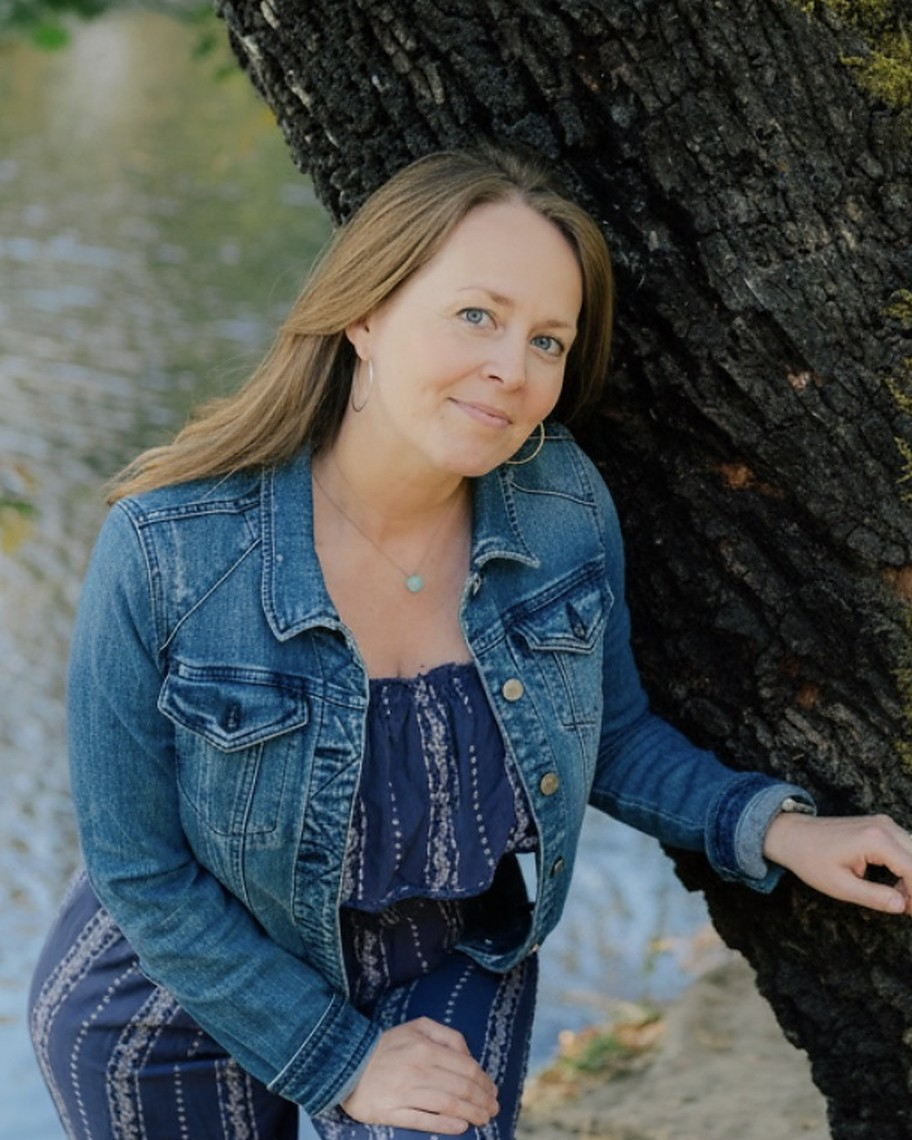
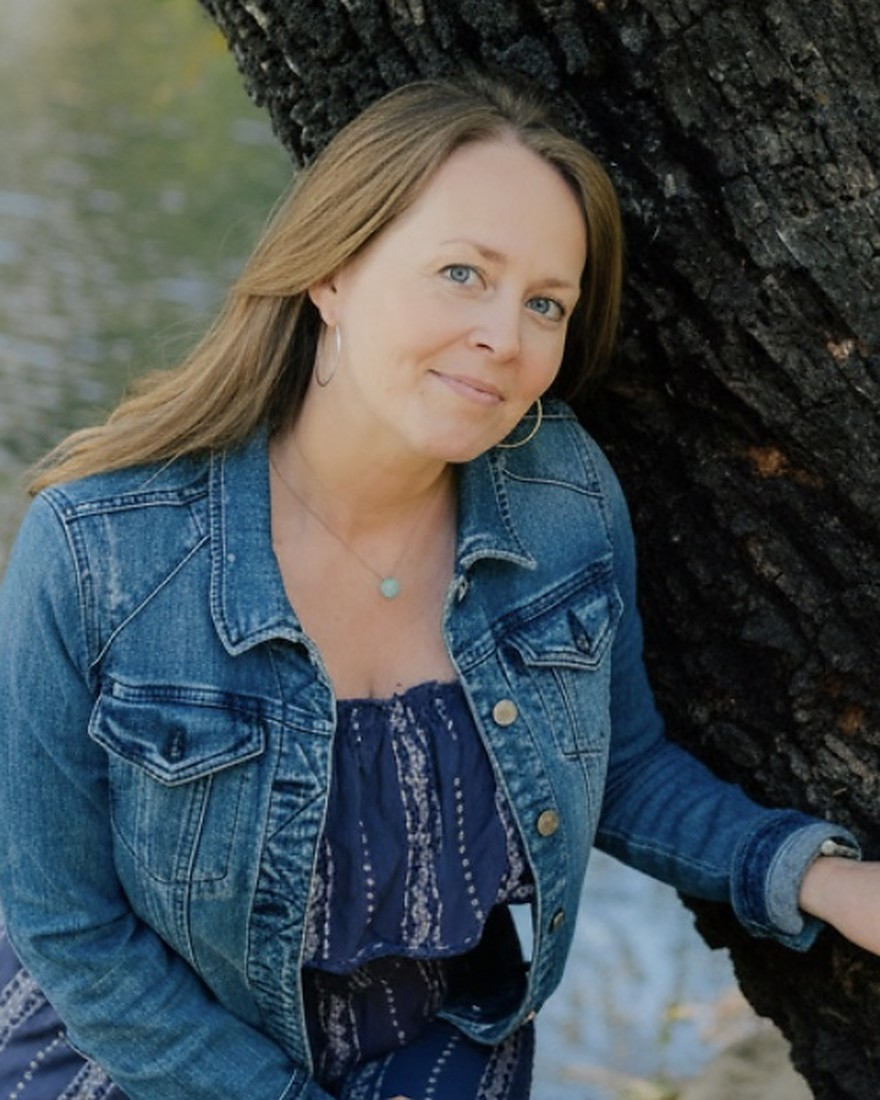
Erin: portrait cropped tighter again, at her ask (v=307)
Crop box on erin-tree.jpg goes from (0,130,608,890) to (55,185,555,810):
500x625, still exactly 4/5, so it still maps to the frame one to one. 18%
tighter than the last pass. Bottom now sits at the jacket hem, the top of her
hip, rather than below the hand; top keeps about 30px over her head.

Worth knowing before going tighter still: the source is only 920px wide, so a
500px crop carries 0.86 of a pixel per pixel of the 584px frame, against 1.04
on the last crop. Resampled up to 880x1100 with a firmer unsharp pass to hold
it together, but the detail is genuinely thinner now. Tighter than this wants
a higher-resolution original from Erin.

diff --git a/clients/erinnorthcott/daniel/index.html b/clients/erinnorthcott/daniel/index.html
@@ -8,7 +8,7 @@
   <link rel="preconnect" href="https://fonts.googleapis.com" />
   <link rel="preconnect" href="https://fonts.gstatic.com" crossorigin />
   <link href="https://fonts.googleapis.com/css2?family=JetBrains+Mono:wght@300;400&family=Caveat:wght@500;600&family=Karla:wght@200..600&family=Instrument+Serif:ital@0;1&display=swap" rel="stylesheet" />
-  <link rel="stylesheet" href="../style.css?v=306" />
+  <link rel="stylesheet" href="../style.css?v=307" />
 </head>
 <body class="is-daniel try-instrument">
   <!-- Arrival: the veil, as everywhere on the site -->
@@ -36,7 +36,7 @@
 
     <!-- 1. THE PACT: one line, alone on the first screen -->
     <section class="dan__pact">
-      <img class="dan__hero" src="../images/daniel/hero-daisies.jpg?v=306" alt="" width="2200" height="1527" decoding="async" fetchpriority="high" />
+      <img class="dan__hero" src="../images/daniel/hero-daisies.jpg?v=307" alt="" width="2200" height="1527" decoding="async" fetchpriority="high" />
       <p class="dan__pactline">My brother and I made a pact...</p>
     </section>
 
@@ -58,7 +58,7 @@
           <span class="dan__folio" aria-hidden="true"></span>
         </div>
         <figure class="dan__secphoto">
-          <span class="dan__mount"><img src="../images/daniel/01-newborn.jpg?v=306" alt="Daniel as a newborn, Erin&rsquo;s hand on his cheek" width="1200" height="808" loading="lazy" decoding="async" /><figcaption class="dan__caption">The first days.</figcaption><i class="dan__mountc" aria-hidden="true"></i></span>
+          <span class="dan__mount"><img src="../images/daniel/01-newborn.jpg?v=307" alt="Daniel as a newborn, Erin&rsquo;s hand on his cheek" width="1200" height="808" loading="lazy" decoding="async" /><figcaption class="dan__caption">The first days.</figcaption><i class="dan__mountc" aria-hidden="true"></i></span>
         </figure>
       </article>
       <article class="dan__sec dan__sec--flip dan__sec--paper" data-folio="2">
@@ -69,7 +69,7 @@
           <span class="dan__folio" aria-hidden="true"></span>
         </div>
         <figure class="dan__secphoto">
-          <span class="dan__mount"><img src="../images/daniel/04-laughing.jpg?v=306" alt="Daniel and Erin laughing as children" width="1200" height="871" loading="lazy" decoding="async" /><figcaption class="dan__caption">Before the two houses.</figcaption><i class="dan__mountc" aria-hidden="true"></i></span>
+          <span class="dan__mount"><img src="../images/daniel/04-laughing.jpg?v=307" alt="Daniel and Erin laughing as children" width="1200" height="871" loading="lazy" decoding="async" /><figcaption class="dan__caption">Before the two houses.</figcaption><i class="dan__mountc" aria-hidden="true"></i></span>
         </figure>
       </article>
       <article class="dan__sec" data-folio="3">
@@ -81,7 +81,7 @@
           <span class="dan__folio" aria-hidden="true"></span>
         </div>
         <figure class="dan__secphoto">
-          <span class="dan__mount"><img src="../images/daniel/07-ballpark.jpg?v=306" alt="Erin and Daniel at the ballpark fence" width="1200" height="804" loading="lazy" decoding="async" /><figcaption class="dan__caption">The years of weekends.</figcaption><i class="dan__mountc" aria-hidden="true"></i></span>
+          <span class="dan__mount"><img src="../images/daniel/07-ballpark.jpg?v=307" alt="Erin and Daniel at the ballpark fence" width="1200" height="804" loading="lazy" decoding="async" /><figcaption class="dan__caption">The years of weekends.</figcaption><i class="dan__mountc" aria-hidden="true"></i></span>
         </figure>
       </article>
       <article class="dan__sec dan__sec--flip dan__sec--paper" data-folio="4">
@@ -93,7 +93,7 @@
           <span class="dan__folio" aria-hidden="true"></span>
         </div>
         <figure class="dan__secphoto">
-          <span class="dan__mount"><img src="../images/daniel/08-teenagers.jpg?v=306" alt="Erin and Daniel, young adults" width="1504" height="1000" loading="lazy" decoding="async" /><figcaption class="dan__caption">Los Angeles, the living room year.</figcaption><i class="dan__mountc" aria-hidden="true"></i></span>
+          <span class="dan__mount"><img src="../images/daniel/08-teenagers.jpg?v=307" alt="Erin and Daniel, young adults" width="1504" height="1000" loading="lazy" decoding="async" /><figcaption class="dan__caption">Los Angeles, the living room year.</figcaption><i class="dan__mountc" aria-hidden="true"></i></span>
         </figure>
       </article>
       <article class="dan__sec" data-folio="5">
@@ -105,7 +105,7 @@
           <span class="dan__folio" aria-hidden="true"></span>
         </div>
         <figure class="dan__secphoto">
-          <span class="dan__mount"><img src="../images/daniel/09-on-the-water.jpg?v=306" alt="Daniel and Erin on the water" width="1800" height="1350" loading="lazy" decoding="async" /><figcaption class="dan__caption">Taiwan.</figcaption><i class="dan__mountc" aria-hidden="true"></i></span>
+          <span class="dan__mount"><img src="../images/daniel/09-on-the-water.jpg?v=307" alt="Daniel and Erin on the water" width="1800" height="1350" loading="lazy" decoding="async" /><figcaption class="dan__caption">Taiwan.</figcaption><i class="dan__mountc" aria-hidden="true"></i></span>
         </figure>
       </article>
       <article class="dan__sec dan__sec--flip dan__sec--paper" data-folio="6">
@@ -116,7 +116,7 @@
           <span class="dan__folio" aria-hidden="true"></span>
         </div>
         <figure class="dan__secphoto">
-          <span class="dan__mount"><img src="../images/daniel/03-asleep-with-muffy.jpg?v=306" alt="Daniel asleep beside Erin" width="1470" height="1000" loading="lazy" decoding="async" /><figcaption class="dan__caption">Dan.</figcaption><i class="dan__mountc" aria-hidden="true"></i></span>
+          <span class="dan__mount"><img src="../images/daniel/03-asleep-with-muffy.jpg?v=307" alt="Daniel asleep beside Erin" width="1470" height="1000" loading="lazy" decoding="async" /><figcaption class="dan__caption">Dan.</figcaption><i class="dan__mountc" aria-hidden="true"></i></span>
         </figure>
       </article>
       <article class="dan__sec" data-folio="7">
@@ -131,7 +131,7 @@
           <span class="dan__folio" aria-hidden="true"></span>
         </div>
         <figure class="dan__secphoto">
-          <span class="dan__mount"><img src="../images/daniel/06-mother-ii.jpg?v=306" alt="Daniel and Erin aboard the boat Mother II" width="1200" height="822" loading="lazy" decoding="async" /><figcaption class="dan__caption">Aboard Mother II.</figcaption><i class="dan__mountc" aria-hidden="true"></i></span>
+          <span class="dan__mount"><img src="../images/daniel/06-mother-ii.jpg?v=307" alt="Daniel and Erin aboard the boat Mother II" width="1200" height="822" loading="lazy" decoding="async" /><figcaption class="dan__caption">Aboard Mother II.</figcaption><i class="dan__mountc" aria-hidden="true"></i></span>
         </figure>
       </article>
       <!-- the end card (2026-09-10): one line over the rings, then the whole
@@ -149,15 +149,15 @@
          right; the neighbours wait as slivers at the edges. Runs back. -->
     <section class="strip" aria-label="Photographs of Daniel and Erin">
       <div class="strip__stage">
-        <figure class="strip__frame"><img src="../images/daniel/04-laughing-film.jpg?v=306" alt="Daniel and Erin laughing as children" width="1400" height="978" decoding="async" /></figure>
-        <figure class="strip__frame"><img src="../images/daniel/01-newborn.jpg?v=306" alt="Daniel as a newborn, Erin's hand on his cheek" width="1200" height="808" loading="lazy" decoding="async" /></figure>
-        <figure class="strip__frame"><img src="../images/daniel/02-shoulders.jpg?v=306" alt="Daniel on a parent's shoulders, Erin beside him" width="836" height="1200" loading="lazy" decoding="async" /></figure>
-        <figure class="strip__frame"><img src="../images/daniel/03-asleep-with-muffy.jpg?v=306" alt="Daniel asleep with Muffy the dog" width="1470" height="1000" loading="lazy" decoding="async" /></figure>
-        <figure class="strip__frame"><img src="../images/daniel/05-daisies.jpg?v=306" alt="Daniel and Erin in a field of daisies" width="1400" height="978" loading="lazy" decoding="async" /></figure>
-        <figure class="strip__frame"><img src="../images/daniel/06-mother-ii.jpg?v=306" alt="Daniel and Erin aboard the boat Mother II" width="1200" height="822" loading="lazy" decoding="async" /></figure>
-        <figure class="strip__frame"><img src="../images/daniel/07-ballpark.jpg?v=306" alt="Erin and Daniel at the ballpark fence" width="1200" height="804" loading="lazy" decoding="async" /></figure>
-        <figure class="strip__frame"><img src="../images/daniel/08-teenagers.jpg?v=306" alt="Erin and Daniel as teenagers" width="1504" height="1000" loading="lazy" decoding="async" /></figure>
-        <figure class="strip__frame"><img src="../images/daniel/09-on-the-water.jpg?v=306" alt="Daniel and Erin on the water" width="1800" height="1350" loading="lazy" decoding="async" /></figure>
+        <figure class="strip__frame"><img src="../images/daniel/04-laughing-film.jpg?v=307" alt="Daniel and Erin laughing as children" width="1400" height="978" decoding="async" /></figure>
+        <figure class="strip__frame"><img src="../images/daniel/01-newborn.jpg?v=307" alt="Daniel as a newborn, Erin's hand on his cheek" width="1200" height="808" loading="lazy" decoding="async" /></figure>
+        <figure class="strip__frame"><img src="../images/daniel/02-shoulders.jpg?v=307" alt="Daniel on a parent's shoulders, Erin beside him" width="836" height="1200" loading="lazy" decoding="async" /></figure>
+        <figure class="strip__frame"><img src="../images/daniel/03-asleep-with-muffy.jpg?v=307" alt="Daniel asleep with Muffy the dog" width="1470" height="1000" loading="lazy" decoding="async" /></figure>
+        <figure class="strip__frame"><img src="../images/daniel/05-daisies.jpg?v=307" alt="Daniel and Erin in a field of daisies" width="1400" height="978" loading="lazy" decoding="async" /></figure>
+        <figure class="strip__frame"><img src="../images/daniel/06-mother-ii.jpg?v=307" alt="Daniel and Erin aboard the boat Mother II" width="1200" height="822" loading="lazy" decoding="async" /></figure>
+        <figure class="strip__frame"><img src="../images/daniel/07-ballpark.jpg?v=307" alt="Erin and Daniel at the ballpark fence" width="1200" height="804" loading="lazy" decoding="async" /></figure>
+        <figure class="strip__frame"><img src="../images/daniel/08-teenagers.jpg?v=307" alt="Erin and Daniel as teenagers" width="1504" height="1000" loading="lazy" decoding="async" /></figure>
+        <figure class="strip__frame"><img src="../images/daniel/09-on-the-water.jpg?v=307" alt="Daniel and Erin on the water" width="1800" height="1350" loading="lazy" decoding="async" /></figure>
         <div class="filmedge filmedge--l" aria-hidden="true"><div class="filmedge__print"><span class="filmedge__mark">16A &#8594; KODAK 400 &#8226;&#8226; 5</span><span class="filmedge__mark">16A &#8594; KODAK 400 &#8226;&#8226; 5</span><span class="filmedge__mark">16A &#8594; KODAK 400 &#8226;&#8226; 5</span><span class="filmedge__mark">16A &#8594; KODAK 400 &#8226;&#8226; 5</span><span class="filmedge__mark">16A &#8594; KODAK 400 &#8226;&#8226; 5</span><span class="filmedge__mark">16A &#8594; KODAK 400 &#8226;&#8226; 5</span><span class="filmedge__mark">16A &#8594; KODAK 400 &#8226;&#8226; 5</span><span class="filmedge__mark">16A &#8594; KODAK 400 &#8226;&#8226; 5</span><span class="filmedge__mark">16A &#8594; KODAK 400 &#8226;&#8226; 5</span><span class="filmedge__mark">16A &#8594; KODAK 400 &#8226;&#8226; 5</span></div></div>
         <div class="filmedge filmedge--r" aria-hidden="true"><div class="filmedge__print"><span class="filmedge__mark">56 &#8226;&#8226; KODAK 400 &#8594; 16A</span><span class="filmedge__mark">56 &#8226;&#8226; KODAK 400 &#8594; 16A</span><span class="filmedge__mark">56 &#8226;&#8226; KODAK 400 &#8594; 16A</span><span class="filmedge__mark">56 &#8226;&#8226; KODAK 400 &#8594; 16A</span><span class="filmedge__mark">56 &#8226;&#8226; KODAK 400 &#8594; 16A</span><span class="filmedge__mark">56 &#8226;&#8226; KODAK 400 &#8594; 16A</span><span class="filmedge__mark">56 &#8226;&#8226; KODAK 400 &#8594; 16A</span><span class="filmedge__mark">56 &#8226;&#8226; KODAK 400 &#8594; 16A</span><span class="filmedge__mark">56 &#8226;&#8226; KODAK 400 &#8594; 16A</span><span class="filmedge__mark">56 &#8226;&#8226; KODAK 400 &#8594; 16A</span></div></div>
         <button class="strip__arrow strip__arrow--prev" type="button" aria-label="Previous photograph"><svg viewBox="0 0 24 24" aria-hidden="true"><path d="M15 5l-7 7 7 7"/></svg></button>
@@ -172,7 +172,7 @@
       <div class="dan__filmgrid">
         <!-- the HBO poster (2026-09-10): her doc-image.jpeg, shown at its own size -->
         <figure class="dan__poster reveal">
-          <img src="../images/daniel/doc-poster.jpg?v=306" alt="The poster for Daniel, an HBO Original documentary" width="367" height="544" loading="lazy" decoding="async" />
+          <img src="../images/daniel/doc-poster.jpg?v=307" alt="The poster for Daniel, an HBO Original documentary" width="367" height="544" loading="lazy" decoding="async" />
         </figure>
       <div class="dan__measure reveal">
         <p class="eyebrow eyebrow--light">The film</p>
@@ -233,9 +233,9 @@
           <p class="cosmos__p">Daniel created a deck of cards: a game based on science that is filled with positivity and wonder for our world, that he played with children around the globe. You can see them in the film. I&rsquo;m bringing them back into the world soon.</p>
         </header>
         <ul class="cosmos__row reveal" aria-label="Cards of the Cosmos">
-          <li class="cosmos__obj"><img class="cosmos__img" src="../images/daniel/card-1.jpg?v=306" alt="A Cards of the Cosmos card" width="748" height="1124" loading="lazy" decoding="async" /></li>
-          <li class="cosmos__obj"><img class="cosmos__img" src="../images/daniel/card-2.jpg?v=306" alt="A Cards of the Cosmos card" width="758" height="1148" loading="lazy" decoding="async" /></li>
-          <li class="cosmos__obj"><img class="cosmos__img" src="../images/daniel/card-3.jpg?v=306" alt="A Cards of the Cosmos card" width="704" height="1084" loading="lazy" decoding="async" /></li>
+          <li class="cosmos__obj"><img class="cosmos__img" src="../images/daniel/card-1.jpg?v=307" alt="A Cards of the Cosmos card" width="748" height="1124" loading="lazy" decoding="async" /></li>
+          <li class="cosmos__obj"><img class="cosmos__img" src="../images/daniel/card-2.jpg?v=307" alt="A Cards of the Cosmos card" width="758" height="1148" loading="lazy" decoding="async" /></li>
+          <li class="cosmos__obj"><img class="cosmos__img" src="../images/daniel/card-3.jpg?v=307" alt="A Cards of the Cosmos card" width="704" height="1084" loading="lazy" decoding="async" /></li>
         </ul>
         <div class="cosmos__act reveal">
           <button class="cosmos__btn" type="button" aria-expanded="false" aria-controls="cosmos-form">Be the first to know</button>
@@ -258,10 +258,10 @@
     <!-- 6. CLOSING: the gold dust rings, then his line -->
     <section class="dan__close">
       <div class="rings reveal" aria-hidden="true">
-        <img class="rings__ring" src="../images/gold-ring.png?v=306" alt="" loading="lazy" decoding="async" width="800" height="796" />
-        <img class="rings__ring" src="../images/gold-ring.png?v=306" alt="" loading="lazy" decoding="async" width="800" height="796" />
-        <img class="rings__ring" src="../images/gold-ring.png?v=306" alt="" loading="lazy" decoding="async" width="800" height="796" />
-        <img class="rings__ring" src="../images/gold-ring.png?v=306" alt="" loading="lazy" decoding="async" width="800" height="796" />
+        <img class="rings__ring" src="../images/gold-ring.png?v=307" alt="" loading="lazy" decoding="async" width="800" height="796" />
+        <img class="rings__ring" src="../images/gold-ring.png?v=307" alt="" loading="lazy" decoding="async" width="800" height="796" />
+        <img class="rings__ring" src="../images/gold-ring.png?v=307" alt="" loading="lazy" decoding="async" width="800" height="796" />
+        <img class="rings__ring" src="../images/gold-ring.png?v=307" alt="" loading="lazy" decoding="async" width="800" height="796" />
       </div>
       <p class="dan__closing reveal">Our story never ends.</p>
     </section>
@@ -317,13 +317,13 @@
     </button>
   </dialog>
 
-  <script src="../reveal.js?v=306" defer></script>
-  <script src="../glint.js?v=306" defer></script>
-  <script src="../cursor.js?v=306" defer></script>
-  <script src="../strip.js?v=306" defer></script>
-  <script src="../stack.js?v=306" defer></script>
-  <script src="../pact.js?v=306" defer></script>
-  <script src="../cosmos.js?v=306" defer></script>
-  <script src="../trailer.js?v=306" defer></script>
+  <script src="../reveal.js?v=307" defer></script>
+  <script src="../glint.js?v=307" defer></script>
+  <script src="../cursor.js?v=307" defer></script>
+  <script src="../strip.js?v=307" defer></script>
+  <script src="../stack.js?v=307" defer></script>
+  <script src="../pact.js?v=307" defer></script>
+  <script src="../cosmos.js?v=307" defer></script>
+  <script src="../trailer.js?v=307" defer></script>
 </body>
 </html>

diff --git a/clients/erinnorthcott/inner-ceremonies/index.html b/clients/erinnorthcott/inner-ceremonies/index.html
@@ -8,7 +8,7 @@
   <link rel="preconnect" href="https://fonts.googleapis.com" />
   <link rel="preconnect" href="https://fonts.gstatic.com" crossorigin />
   <link href="https://fonts.googleapis.com/css2?family=Fraunces:ital,opsz,wght@0,9..144,300;0,9..144,400;0,9..144,500;1,9..144,300;1,9..144,400&family=JetBrains+Mono:wght@300;400&family=Caveat:wght@500;600&family=Karla:wght@200..600&family=Permanent+Marker&family=Instrument+Serif:ital@0;1&display=swap" rel="stylesheet" />
-  <link rel="stylesheet" href="../style.css?v=306" />
+  <link rel="stylesheet" href="../style.css?v=307" />
 </head>
 <body class="is-ceremony try-instrument">
   <!-- Arrival: a luminous veil that dissolves on load -->
@@ -39,7 +39,7 @@
         <!-- the hero IS what lies beyond the arch: pinned here while you pass
              through, its words fading in once the opening has cleared -->
         <section class="temple__hero">
-          <video class="temple__herovid" data-src="../videos/rose-water.mp4?v=306" poster="../images/rose-water-poster.jpg?v=306" loop muted playsinline preload="none" aria-hidden="true"></video>
+          <video class="temple__herovid" data-src="../videos/rose-water.mp4?v=307" poster="../images/rose-water-poster.jpg?v=307" loop muted playsinline preload="none" aria-hidden="true"></video>
           <span class="temple__herowash" aria-hidden="true"></span>
           <div class="temple__herotext">
             <h1 class="temple__title">Inner Ceremonies</h1>
@@ -83,9 +83,9 @@
           <p class="temple__beat">Wherever you&rsquo;re standing, the work meets you there.</p>
         </div>
         <div class="temple__aside">
-          <img class="temple__forest reveal" src="../images/forest-light.jpg?v=306" alt="" aria-hidden="true" loading="lazy" decoding="async" width="789" height="1400" />
+          <img class="temple__forest reveal" src="../images/forest-light.jpg?v=307" alt="" aria-hidden="true" loading="lazy" decoding="async" width="789" height="1400" />
       <figure class="spiral reveal" role="presentation">
-      <img class="temple__asiderose" src="../images/spiral-rose.jpg?v=306" alt="" aria-hidden="true" loading="lazy" decoding="async" width="1400" height="1400" />
+      <img class="temple__asiderose" src="../images/spiral-rose.jpg?v=307" alt="" aria-hidden="true" loading="lazy" decoding="async" width="1400" height="1400" />
       <svg class="spiral__svg" viewBox="0 0 398 398" aria-hidden="true" focusable="false">
         <defs>
           <path id="sp4" d="M0.000,-1.000L0.212,-0.212L1.000,0.000L0.212,0.212L0.000,1.000L-0.212,0.212L-1.000,0.000L-0.212,-0.212Z"/>
@@ -380,7 +380,7 @@
           <p class="temple__lede"><strong>A producer, coach, hypnotherapist, and mother. Everyone is welcome here.</strong></p>
         </div>
         <figure class="temple__portrait reveal">
-          <img src="../images/erin-tree-crop.jpg?v=306" alt="Erin Northcott" loading="lazy" decoding="async" width="912" height="1140" />
+          <img src="../images/erin-tree-crop.jpg?v=307" alt="Erin Northcott" loading="lazy" decoding="async" width="880" height="1100" />
         </figure>
       </div>
     </section>
@@ -551,7 +551,7 @@
     <section class="temple__band temple__band--note">
       <div class="temple__wrap temple__note">
         <figure class="temple__snap reveal">
-          <img src="../images/erin-ayan.jpg?v=306" alt="Erin with Ayan" loading="lazy" decoding="async" width="933" height="1400" />
+          <img src="../images/erin-ayan.jpg?v=307" alt="Erin with Ayan" loading="lazy" decoding="async" width="933" height="1400" />
         </figure>
         <div class="temple__notetext reveal">
           <p class="temple__label">A note from me</p>
@@ -601,10 +601,10 @@
       <!-- her gold ring, layered four times into concentric circles, each
            turning at its own pace, behind the closing line -->
       <div class="rings reveal" aria-hidden="true">
-        <img class="rings__ring" src="../images/gold-ring.png?v=306" alt="" loading="eager" decoding="async" width="800" height="796" />
-        <img class="rings__ring" src="../images/gold-ring.png?v=306" alt="" loading="lazy" decoding="async" width="800" height="796" />
-        <img class="rings__ring" src="../images/gold-ring.png?v=306" alt="" loading="lazy" decoding="async" width="800" height="796" />
-        <img class="rings__ring" src="../images/gold-ring.png?v=306" alt="" loading="lazy" decoding="async" width="800" height="796" />
+        <img class="rings__ring" src="../images/gold-ring.png?v=307" alt="" loading="eager" decoding="async" width="800" height="796" />
+        <img class="rings__ring" src="../images/gold-ring.png?v=307" alt="" loading="lazy" decoding="async" width="800" height="796" />
+        <img class="rings__ring" src="../images/gold-ring.png?v=307" alt="" loading="lazy" decoding="async" width="800" height="796" />
+        <img class="rings__ring" src="../images/gold-ring.png?v=307" alt="" loading="lazy" decoding="async" width="800" height="796" />
       </div>
       <p class="temple__closing reveal">How <em>clear</em> could you feel<span class="temple__q">?</span></p>
     </section>
@@ -641,13 +641,13 @@
     </div>
   </footer>
 
-  <script src="../reveal.js?v=306" defer></script>
-  <script src="../glint.js?v=306" defer></script>
-  <script src="../threshold.js?v=306" defer></script>
-  <script src="../praise.js?v=306" defer></script>
-  <script src="../pillars.js?v=306" defer></script>
-  <script src="../faq.js?v=306" defer></script>
-  <script src="../dust.js?v=306" defer></script>
-  <script src="../words.js?v=306" defer></script>
+  <script src="../reveal.js?v=307" defer></script>
+  <script src="../glint.js?v=307" defer></script>
+  <script src="../threshold.js?v=307" defer></script>
+  <script src="../praise.js?v=307" defer></script>
+  <script src="../pillars.js?v=307" defer></script>
+  <script src="../faq.js?v=307" defer></script>
+  <script src="../dust.js?v=307" defer></script>
+  <script src="../words.js?v=307" defer></script>
 </body>
 </html>

diff --git a/clients/erinnorthcott/index.html b/clients/erinnorthcott/index.html
@@ -8,7 +8,7 @@
   <link rel="preconnect" href="https://fonts.googleapis.com" />
   <link rel="preconnect" href="https://fonts.gstatic.com" crossorigin />
   <link href="https://fonts.googleapis.com/css2?family=Fraunces:ital,opsz,wght@0,9..144,400;0,9..144,500;0,9..144,600;1,9..144,300;1,9..144,400;1,9..144,500&family=JetBrains+Mono:wght@300;400;500&family=Caveat:wght@500;600;700&family=Karla:wght@300..700&family=Permanent+Marker&family=Instrument+Serif:ital@0;1&display=swap" rel="stylesheet" />
-  <link rel="stylesheet" href="style.css?v=306" />
+  <link rel="stylesheet" href="style.css?v=307" />
 </head>
 <body class="try-instrument">
   <!-- Arrival: a luminous veil that dissolves on load — you cross a threshold -->
@@ -105,7 +105,7 @@
           <a class="filmframe__link" data-trailer href="https://www.youtube.com/watch?v=04iHR-eZIXY" target="_blank" rel="noopener" aria-haspopup="dialog" aria-label="Watch the trailer for Daniel — an HBO Original documentary">
             <div class="filmframe__img">
               <!-- data-has-audio flips to "true" the moment the clip carries sound -->
-              <video class="filmframe__vid" data-src="videos/daniel.mp4?v=306" data-has-audio="true" poster="images/daniel.jpg?v=306" loop muted playsinline preload="none" aria-hidden="true"></video>
+              <video class="filmframe__vid" data-src="videos/daniel.mp4?v=307" data-has-audio="true" poster="images/daniel.jpg?v=307" loop muted playsinline preload="none" aria-hidden="true"></video>
               <span class="filmframe__watch">Watch the trailer &rarr;</span>
             </div>
             <!-- Key-art label: the film's own line, brushed onto torn tape -->
@@ -157,7 +157,7 @@
 
         <figure class="erin__photo reveal">
           <div class="erin__plate">
-            <img src="images/erin-rose.jpg?v=306" alt="Erin Northcott" loading="lazy" decoding="async" width="1920" height="1042" />
+            <img src="images/erin-rose.jpg?v=307" alt="Erin Northcott" loading="lazy" decoding="async" width="1920" height="1042" />
           </div>
         </figure>
 
@@ -283,15 +283,15 @@
     </button>
   </dialog>
 
-  <script src="sky.js?v=306" defer></script>
+  <script src="sky.js?v=307" defer></script>
   <script src="stars.js" defer></script>
-  <script src="motes.js?v=306" defer></script>
-  <script src="cursor.js?v=306" defer></script>
-  <script src="letters.js?v=306" defer></script>
-  <script src="sound.js?v=306" defer></script>
-  <script src="petals.js?v=306" defer></script>
-  <script src="reveal.js?v=306" defer></script>
-  <script src="glint.js?v=306" defer></script>
-  <script src="trailer.js?v=306" defer></script>
+  <script src="motes.js?v=307" defer></script>
+  <script src="cursor.js?v=307" defer></script>
+  <script src="letters.js?v=307" defer></script>
+  <script src="sound.js?v=307" defer></script>
+  <script src="petals.js?v=307" defer></script>
+  <script src="reveal.js?v=307" defer></script>
+  <script src="glint.js?v=307" defer></script>
+  <script src="trailer.js?v=307" defer></script>
 </body>
 </html>

diff --git a/clients/erinnorthcott/inner-ceremonies-tester/index.html b/clients/erinnorthcott/inner-ceremonies-tester/index.html
@@ -9,7 +9,7 @@
   <link rel="preconnect" href="https://fonts.googleapis.com" />
   <link rel="preconnect" href="https://fonts.gstatic.com" crossorigin />
   <link href="https://fonts.googleapis.com/css2?family=Fraunces:ital,opsz,wght@0,9..144,300;0,9..144,400;0,9..144,500;1,9..144,300;1,9..144,400&family=JetBrains+Mono:wght@300;400&family=Caveat:wght@500;600&family=Karla:wght@200..600&family=Permanent+Marker&display=swap" rel="stylesheet" />
-  <link rel="stylesheet" href="../style.css?v=306" />
+  <link rel="stylesheet" href="../style.css?v=307" />
 </head>
 <body class="is-ceremony is-temple-light">
   <!-- Arrival: a luminous veil that dissolves on load -->
@@ -35,7 +35,7 @@
 
     <!-- HERO -->
     <section class="temple__hero">
-      <video class="temple__herovid" data-src="../videos/rose-water.mp4?v=306" poster="../images/rose-water-poster.jpg?v=306" loop muted playsinline preload="none" aria-hidden="true"></video>
+      <video class="temple__herovid" data-src="../videos/rose-water.mp4?v=307" poster="../images/rose-water-poster.jpg?v=307" loop muted playsinline preload="none" aria-hidden="true"></video>
       <span class="temple__herowash" aria-hidden="true"></span>
       <div class="temple__herotext">
         <h1 class="temple__title">Inner Ceremonies</h1>
@@ -155,6 +155,6 @@
     </div>
   </footer>
 
-  <script src="../reveal.js?v=306" defer></script>
+  <script src="../reveal.js?v=307" defer></script>
 </body>
 </html>

diff --git a/clients/erinnorthcott/podcast/index.html b/clients/erinnorthcott/podcast/index.html
@@ -8,7 +8,7 @@
   <link rel="preconnect" href="https://fonts.googleapis.com" />
   <link rel="preconnect" href="https://fonts.gstatic.com" crossorigin />
   <link href="https://fonts.googleapis.com/css2?family=Fraunces:ital,opsz,wght@0,9..144,400;0,9..144,500;0,9..144,600;1,9..144,300;1,9..144,400;1,9..144,500&family=JetBrains+Mono:wght@300;400;500&family=Caveat:wght@500;600;700&family=Karla:wght@300..700&family=Permanent+Marker&family=Instrument+Serif:ital@0;1&display=swap" rel="stylesheet" />
-  <link rel="stylesheet" href="../style.css?v=306" />
+  <link rel="stylesheet" href="../style.css?v=307" />
 </head>
 <body class="try-instrument is-connect is-podcast">
   <!-- Arrival: a luminous veil that dissolves on load — you cross a threshold -->
@@ -107,9 +107,9 @@
     </div>
   </footer>
 
-  <script src="../motes.js?v=306" defer></script>
-  <script src="../cursor.js?v=306" defer></script>
-  <script src="../reveal.js?v=306" defer></script>
-  <script src="../glint.js?v=306" defer></script>
+  <script src="../motes.js?v=307" defer></script>
+  <script src="../cursor.js?v=307" defer></script>
+  <script src="../reveal.js?v=307" defer></script>
+  <script src="../glint.js?v=307" defer></script>
 </body>
 </html>

diff --git a/clients/erinnorthcott/connect/index.html b/clients/erinnorthcott/connect/index.html
@@ -8,7 +8,7 @@
   <link rel="preconnect" href="https://fonts.googleapis.com" />
   <link rel="preconnect" href="https://fonts.gstatic.com" crossorigin />
   <link href="https://fonts.googleapis.com/css2?family=Fraunces:ital,opsz,wght@0,9..144,400;0,9..144,500;0,9..144,600;1,9..144,300;1,9..144,400;1,9..144,500&family=JetBrains+Mono:wght@300;400;500&family=Caveat:wght@500;600;700&family=Karla:wght@300..700&family=Permanent+Marker&family=Instrument+Serif:ital@0;1&display=swap" rel="stylesheet" />
-  <link rel="stylesheet" href="../style.css?v=306" />
+  <link rel="stylesheet" href="../style.css?v=307" />
 </head>
 <body class="try-instrument is-connect">
   <!-- Arrival: a luminous veil that dissolves on load — you cross a threshold -->
@@ -139,9 +139,9 @@
     </div>
   </footer>
 
-  <script src="../motes.js?v=306" defer></script>
-  <script src="../cursor.js?v=306" defer></script>
-  <script src="../reveal.js?v=306" defer></script>
-  <script src="../connect.js?v=306" defer></script>
+  <script src="../motes.js?v=307" defer></script>
+  <script src="../cursor.js?v=307" defer></script>
+  <script src="../reveal.js?v=307" defer></script>
+  <script src="../connect.js?v=307" defer></script>
 </body>
 </html>
